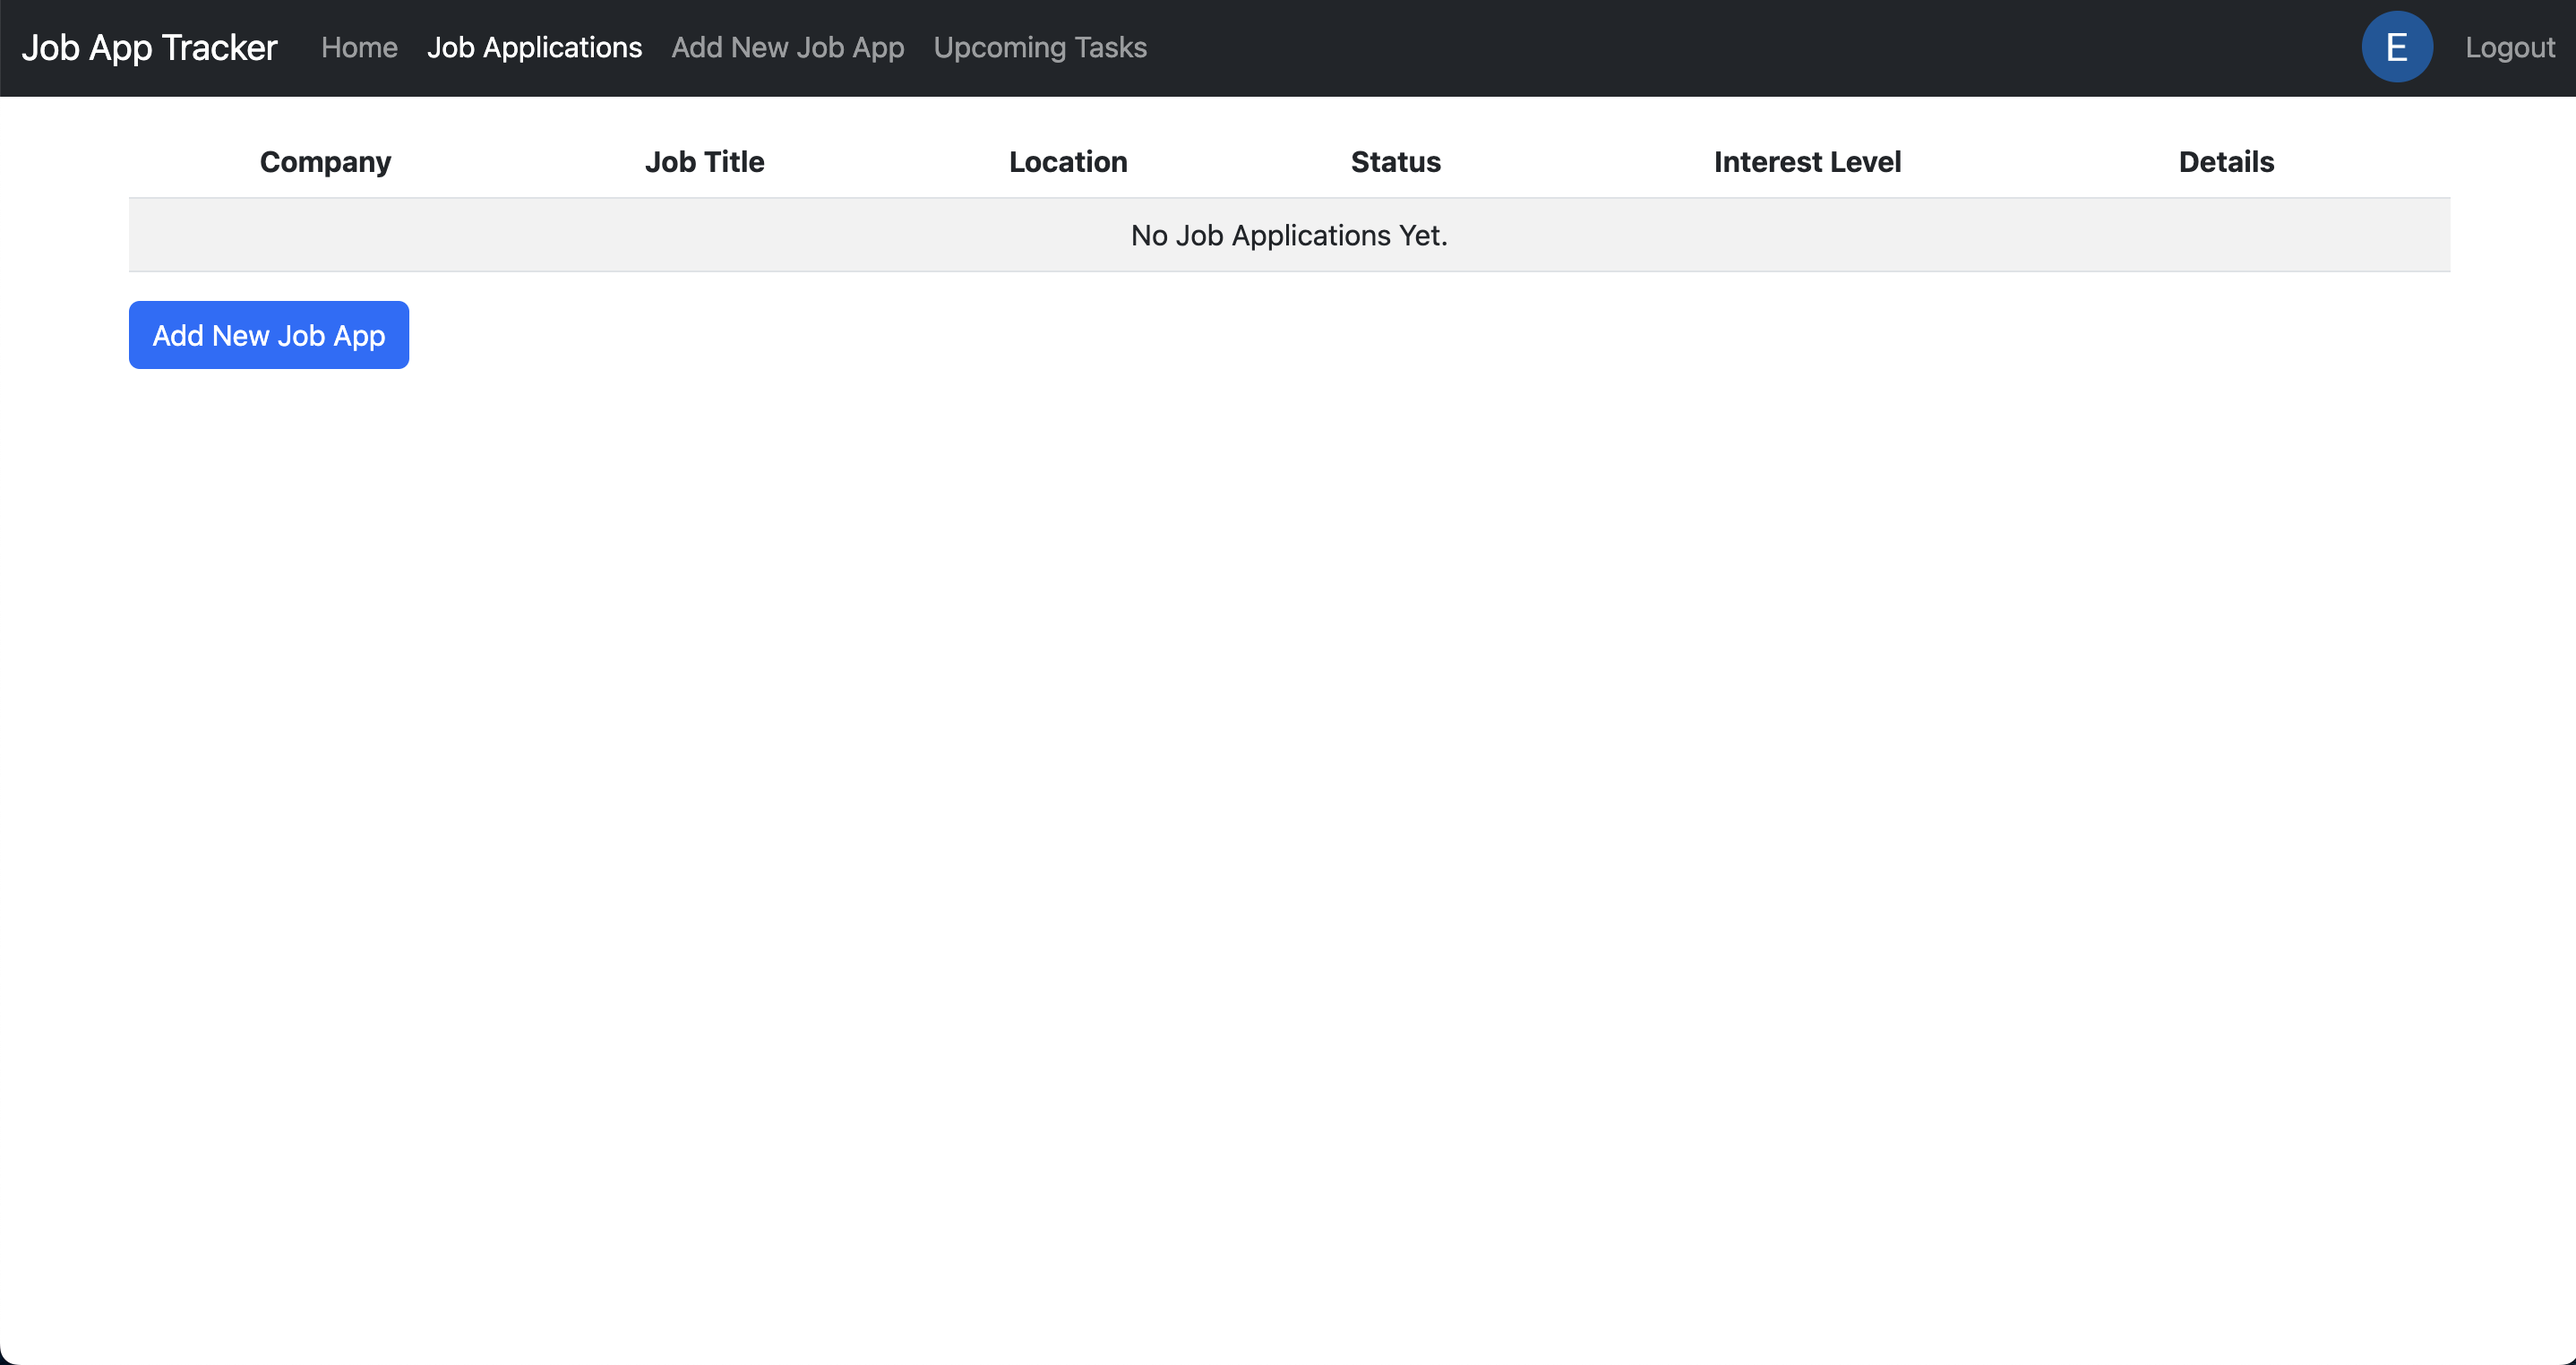
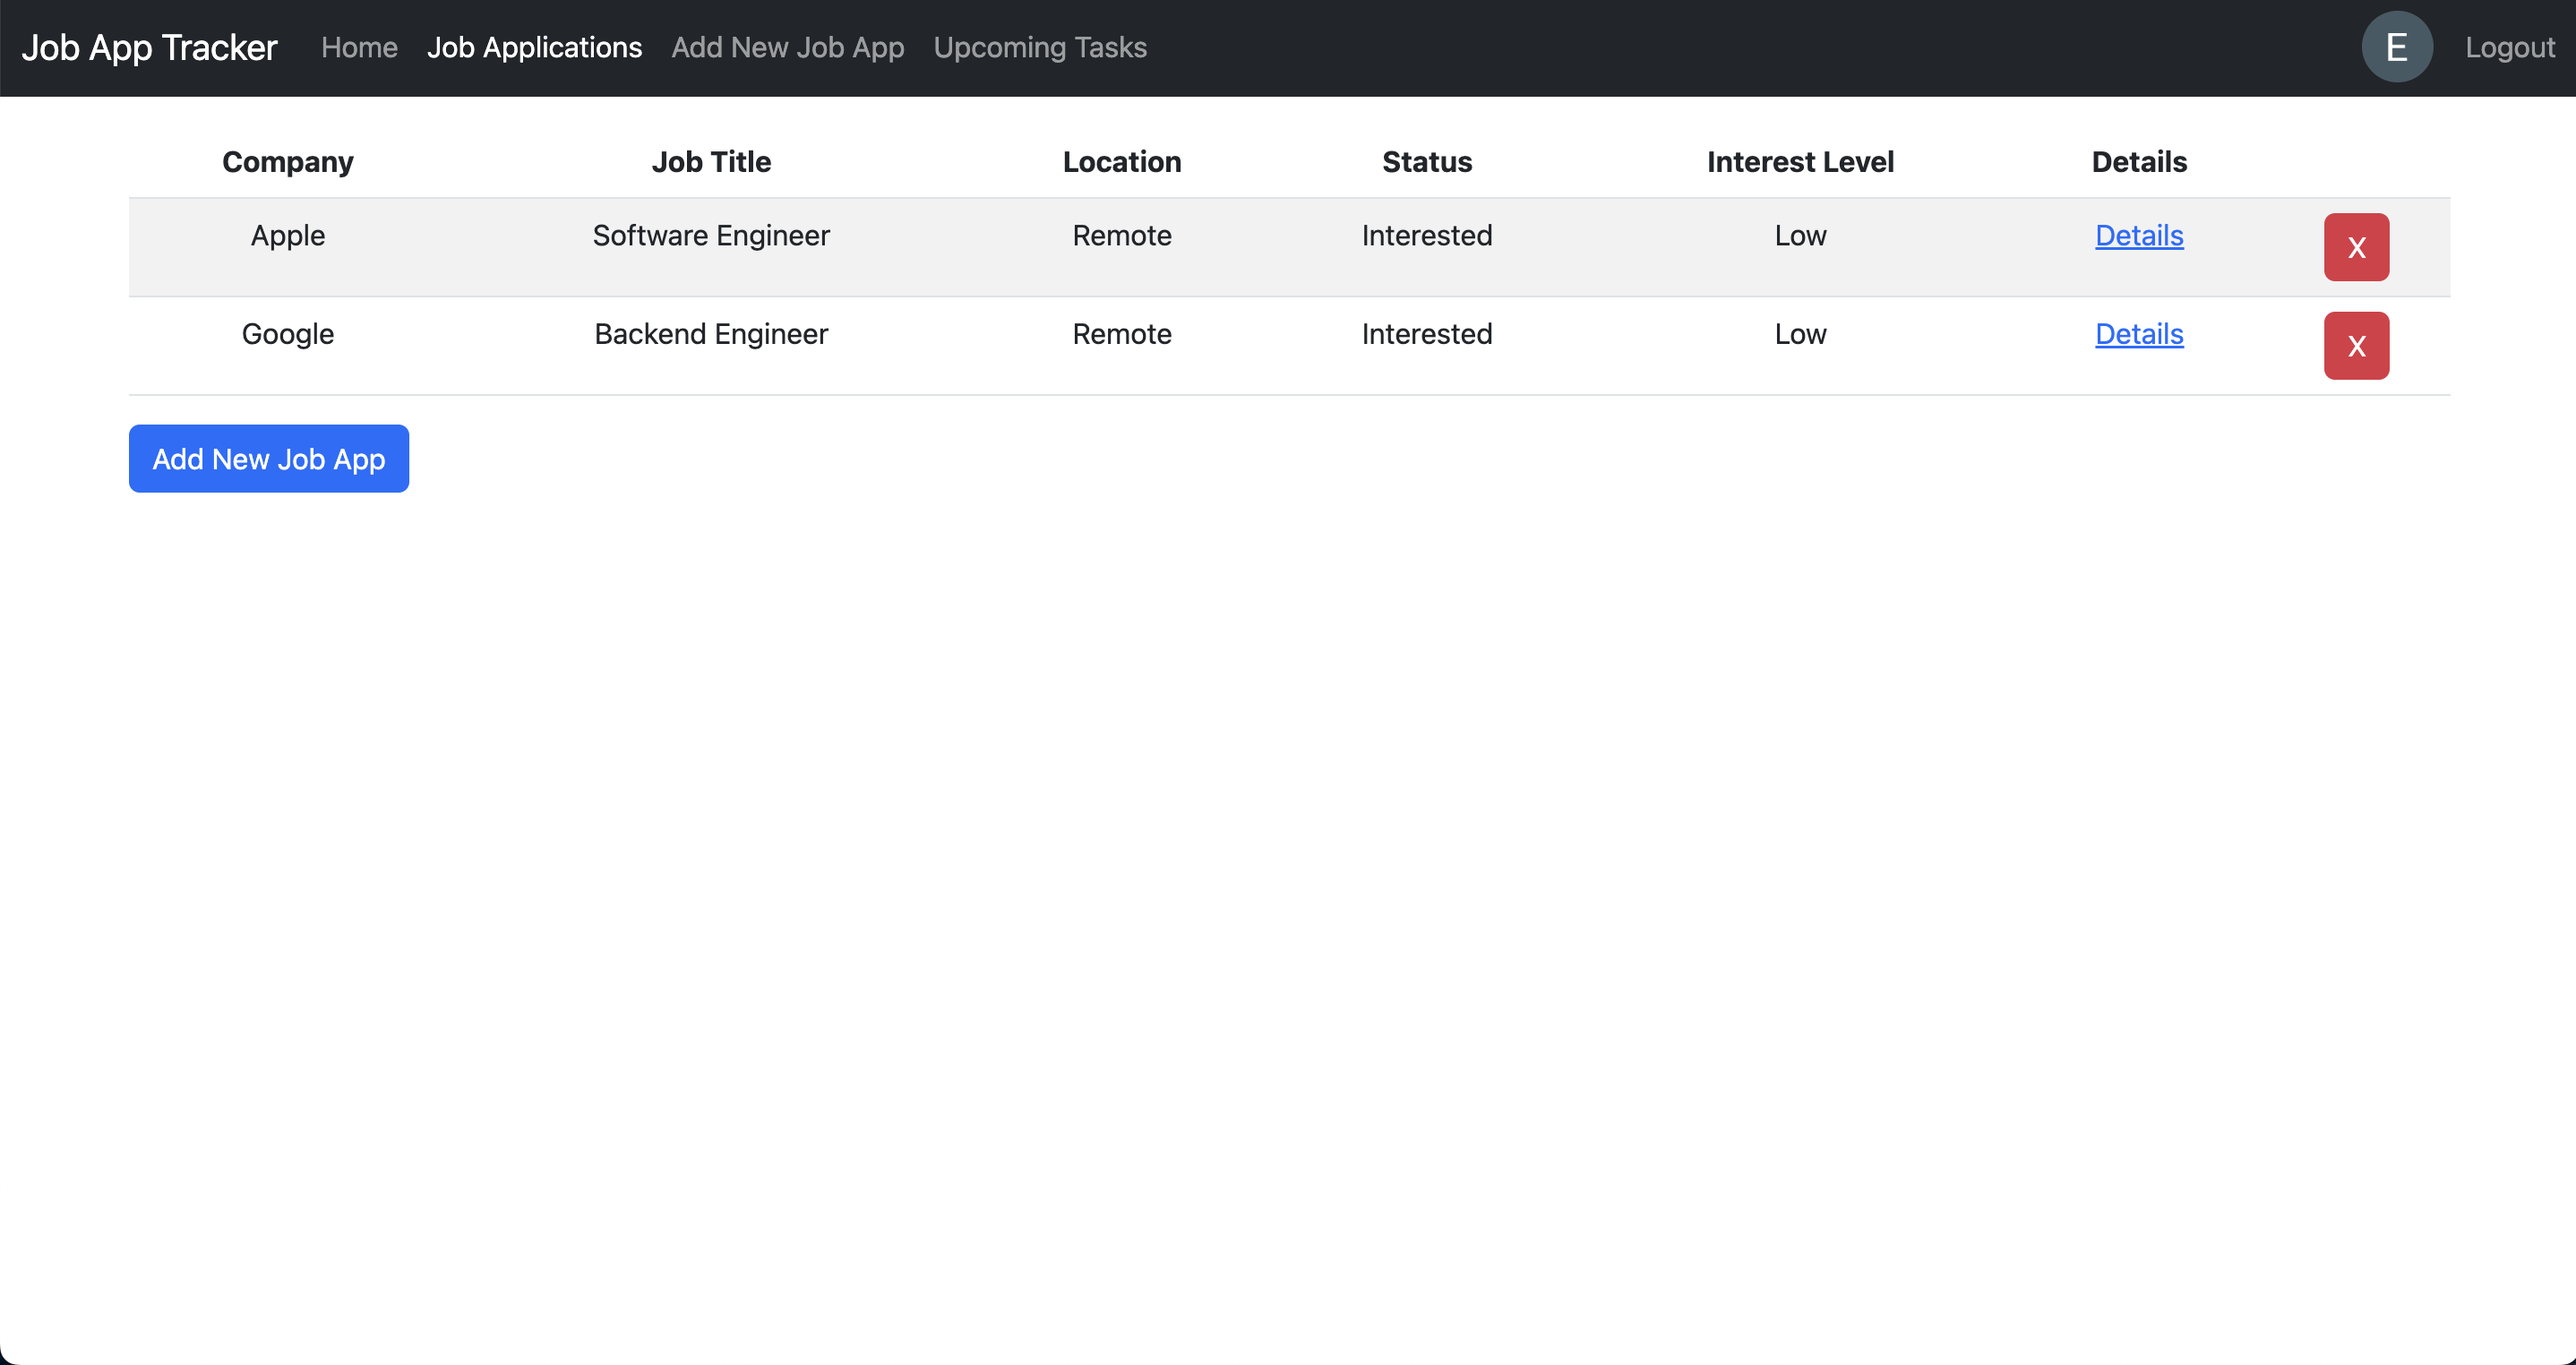
Updates README

diff --git a/README.md b/README.md
@@ -2,31 +2,40 @@
 
 ## Background
 <p>
-    This Job Application Tracker is a web application that helps job seekers manage the job application process. Users can create new job application entries, add contact information, save links to resumes and cover letters that were sent, and create tasks. 
+    This Job Application Tracker is a web application that helps job seekers manage the job application process. Users can create new job application entries, add contact information, save links to resumes and cover letters that were sent, and create tasks.
+</p>
+
+## Application Architecture
+<p>
+    The application is structured to follow Express.js best practices and the Model-View-Controller (MVC) architecture. The application is scaffolded using Express-Generator and it utilizes the EJS View Engine. Data resources have separate model, view, controller, and router files to isolate CRUD operations for each data resource. Isolating data resources in this manner is good practice because it allows developers to quickly and consistently identify which files to visit while troubleshooting issues and when adding new features for existing data resources. Utilizing this architecture makes this application maintainable and feature-scalable moving forward.
+</p>
+
+## Authentication and Authorization
+<p>
+    This application utilizes OAuth 2.0 - Google Strategy and Passport.js for user authentication. Users can log in using their Google account to access the features of this application. Once a user is logged in, they are authorized to create, read, update, and delete job application data associated with their user account. Users will not be able to view any data created by other users. 
 </p>
 
 ## Technologies Used
 <p>
-    Technologies used in this project: HTML5, CSS3, Bootstrap, JavaScript, Node.js, Express.js, MongoDB, Mongoose, and OAuth2 (Google Strategy).
+    Technologies used in this project: HTML5, CSS3, Bootstrap, JavaScript, Node.js, Express.js, EJS View Engine, MongoDB, Mongoose, and OAuth 2.0 (Google Strategy).
 </p>
 
 # Getting Started
 
-### Trello Board Link https://trello.com/b/7QVUerin/job-app-tracker-ga-project-2
-### Application Link https://job-application-tracker-et.herokuapp.com/
+### Project Planning Board: https://trello.com/b/7QVUerin/job-app-tracker-ga-project-2
+### Application: https://job-application-tracker-et.herokuapp.com/
 <p>
-    To get started, click on the above link and log in. The application's authorization system is managed by OAuth using the Google OAuth2 strategy. 
+    To get started, click on the application link above and log in. The application's authorization system is managed by OAuth using the Google OAuth2 strategy. 
 </p>
 
 <img src='./img/home.png' width='1000px'>
 <br></br>
 
 <p>
-    Once logged in, the user will be able to create and view job applications. 
+    Once logged in, the user will redirected to the job app index page, which lists out all the user's job applications. From this screen, the user is able to view and delete job applications. 
 </p>
 
 <img src='./img/jobindex1.png' width='1000px'>
-<img src='./img/jobindex2.png' width='1000px'>
 <br></br>
 
 <p>
@@ -37,7 +46,7 @@
 <br></br>
 
 <p>
-    Once a new app is added, the user can view details for that specific job app. On this page, the user can view the job details, add a link to the resume and cover letter that was submitted, add recruiter contact information, and add and update tasks.
+    Once a new app is added, the user can view details for that specific job app. The user can navigate to the show (details) page for a specific job application through the "details" links on the job application index page. On the show page, the user can view the job details, add a link to the resume and cover letter that was submitted, add recruiter contact information, and add and update tasks.
 </p>
 
 <img src='./img/showjobapp.png' width='1000px'>
